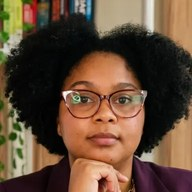
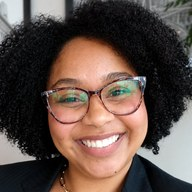
E-mail de artigo: foto da Cassia sorrindo na assinatura

diff --git a/resources/views/emails/artigo-novo.blade.php b/resources/views/emails/artigo-novo.blade.php
@@ -78,7 +78,7 @@
                             <table role="presentation" cellpadding="0" cellspacing="0" border="0">
                                 <tr>
                                     <td style="padding-right:16px;vertical-align:middle;">
-                                        <img src="{{ url('/assets/img/cassia-email.jpg') }}" width="64" height="64" alt="Cassia Souza" style="display:block;width:64px;height:64px;border:0;border-radius:50%;">
+                                        <img src="{{ url('/assets/img/cassia-email.jpg?v=2') }}" width="64" height="64" alt="Cassia Souza" style="display:block;width:64px;height:64px;border:0;border-radius:50%;">
                                     </td>
                                     <td style="vertical-align:middle;">
                                         <p style="margin:0;font-family:{{ $serif }};font-size:20px;line-height:24px;font-weight:600;color:#590854;">Cassia Souza</p>
